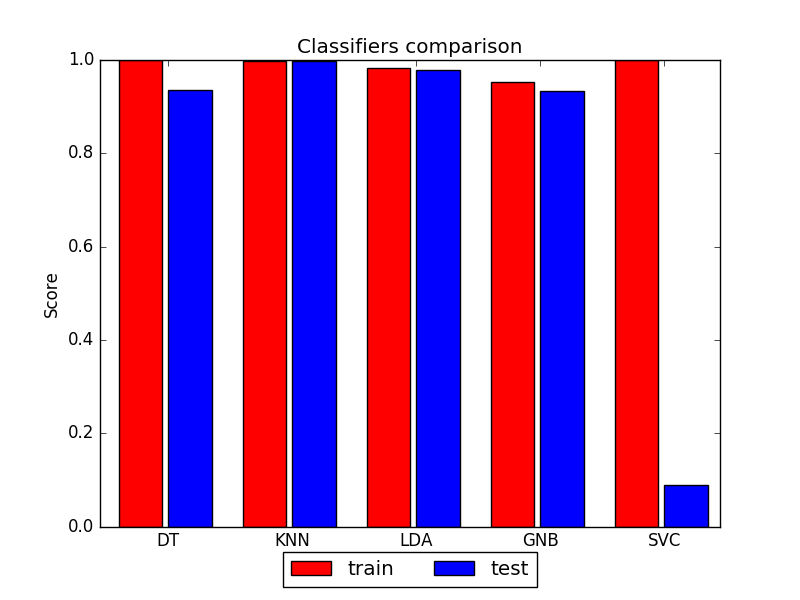
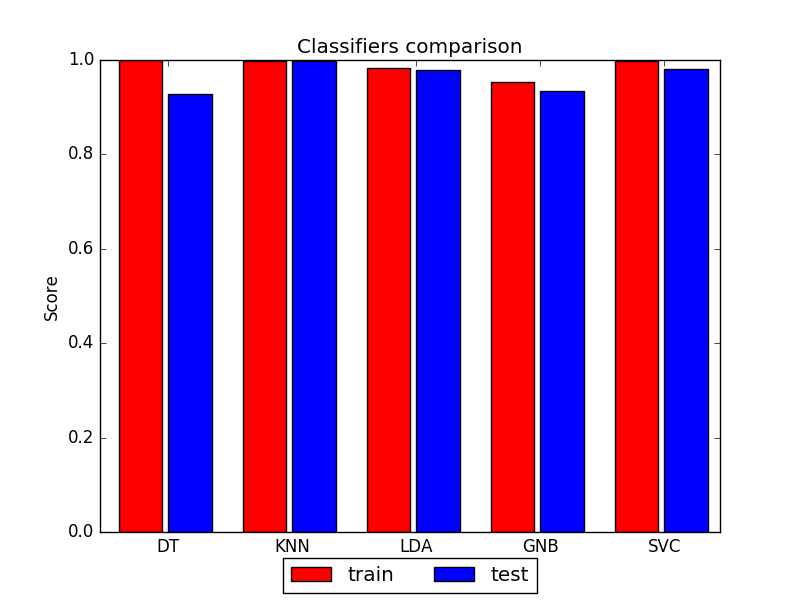
Added LinearSVC

diff --git a/experiments.py b/experiments.py
@@ -6,7 +6,7 @@ from sklearn.tree import DecisionTreeClassifier
 from sklearn.neighbors import KNeighborsClassifier
 from sklearn.discriminant_analysis import LinearDiscriminantAnalysis
 from sklearn.naive_bayes import GaussianNB
-from sklearn.svm import SVC
+from sklearn.svm import LinearSVC
 from sklearn.metrics import classification_report
 from sklearn.metrics import confusion_matrix
 
@@ -135,8 +135,8 @@ for size in sizes:
     GNBclassifier = GaussianNB().fit(X_train, y_train)
     scores_gnb.append(GNBclassifier.score(X_test, y_test))
 
-    #~ SVCclassifier = SVC().fit(X_train, y_train)
-    #~ scores_svm.append(SVCclassifier.score(X_test, y_test))
+    SVCclassifier = LinearSVC().fit(X_train, y_train)
+    scores_svm.append(SVCclassifier.score(X_test, y_test))
 
 
 plt.figure()
@@ -144,9 +144,10 @@ plt.plot(sizes, scores_dt, 'r-*', label='DT')
 plt.plot(sizes, scores_knn, 'b-^', label='KNN')
 plt.plot(sizes, scores_lda, 'g-s', label='LDA')
 plt.plot(sizes, scores_gnb, 'm-<', label='GNB')
-#~ plt.plot(sizes, scores_svm, 'c->', label='SVM')
+plt.plot(sizes, scores_svm, 'c->', label='SVM')
 
-plt.axvline(x=210, color= 'k')
+plt.axvline(x=210, color='k')
+plt.axvline(x=500, color='k')
 plt.ylabel('Score')
 plt.xlabel('Train set size')
 plt.legend(loc='center right')

diff --git a/digits_recognizer.py b/digits_recognizer.py
@@ -7,7 +7,7 @@ from sklearn.tree import DecisionTreeClassifier
 from sklearn.neighbors import KNeighborsClassifier
 from sklearn.discriminant_analysis import LinearDiscriminantAnalysis
 from sklearn.naive_bayes import GaussianNB
-from sklearn.svm import SVC
+from sklearn.svm import LinearSVC
 from sklearn.metrics import classification_report
 from sklearn.metrics import confusion_matrix
 
@@ -179,7 +179,7 @@ print()
 
 ### Support Vector Machines
 
-SVCclassifier = SVC().fit(X_train, y_train)
+SVCclassifier = LinearSVC().fit(X_train, y_train)
 SVCclassifier_score_train = SVCclassifier.score(X_train, y_train)
 SVCclassifier_score_test = SVCclassifier.score(X_test, y_test)
 print('Accuracy of SVM classifier on training set: ' + str(SVCclassifier_score_train))
